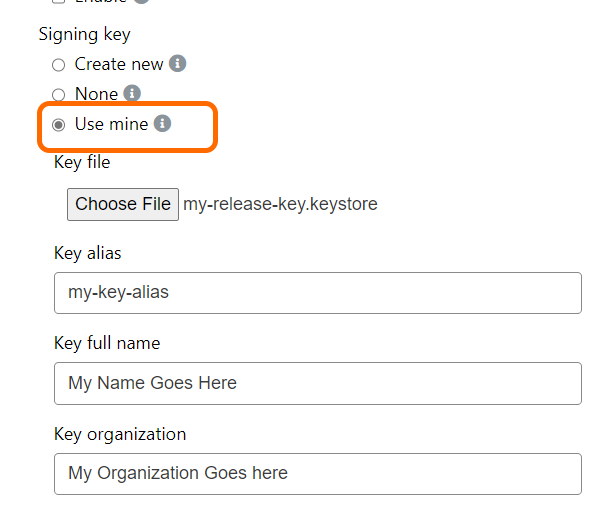
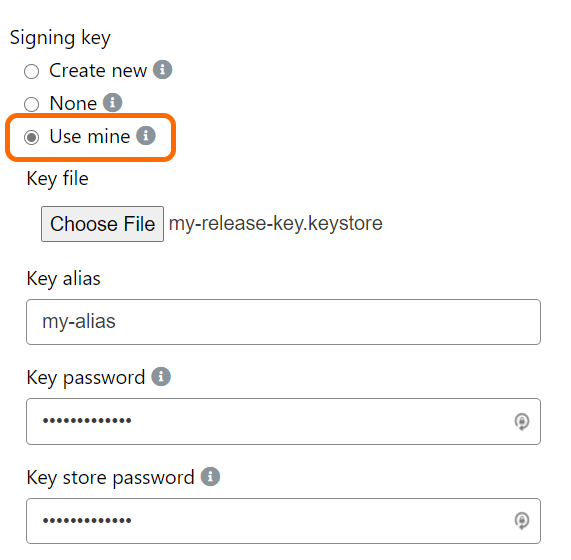
Update to signing key validation for new keys (#44)
* Update to signing key validation for new keys

* Updated image for "use mine" scenario

* Fixed small issue in readme

diff --git a/routes/project.js b/routes/project.js
@@ -123,13 +123,13 @@ function validateApkRequest(request) {
         // Verify we have the required signing options.
         const requiredSigningOptions = [
             "alias",
-            "countryCode",
-            "fullName",
             "keyPassword",
-            "organization",
-            "organizationalUnit",
             "storePassword"
         ];
+        // If we're creating a new key, we require additional info.
+        if (options.signingMode === "new") {
+            requiredSigningOptions.push("countryCode", "fullName", "organization", "organizationalUnit");
+        }
         validationErrors.push(...requiredSigningOptions
             .filter(f => !(options === null || options === void 0 ? void 0 : options.signing[f]))
             .map(f => `Signing option ${f} is required`));

diff --git a/build/bubbleWrapper.ts b/build/bubbleWrapper.ts
@@ -108,6 +108,10 @@ export class BubbleWrapper {
     private async createSigningKey(signingInfo: LocalKeyFileSigningOptions) {
         const keyTool = new KeyTool(this.jdkHelper);
         const overwriteExisting = true;
+        if (!signingInfo.fullName || !signingInfo.organization || !signingInfo.organizationalUnit || !signingInfo.countryCode) {
+            throw new Error(`Missing required signing info. Full name: ${signingInfo.fullName}, Organization: ${signingInfo.organization}, Organizational Unit: ${signingInfo.organizationalUnit}, Country Code: ${signingInfo.countryCode}.`);
+        }
+
         const keyOptions: CreateKeyOptions = {
             path: signingInfo.keyFilePath,
             password: signingInfo.storePassword,

diff --git a/routes/project.ts b/routes/project.ts
@@ -138,13 +138,15 @@ function validateApkRequest(request: express.Request): AppPackageRequest {
     // Verify we have the required signing options.
     const requiredSigningOptions: Array<keyof SigningOptions> = [
       "alias",
-      "countryCode",
-      "fullName",
       "keyPassword",
-      "organization",
-      "organizationalUnit",
       "storePassword"
     ];
+
+    // If we're creating a new key, we require additional info.
+    if (options.signingMode === "new") {
+      requiredSigningOptions.push("countryCode", "fullName", "organization", "organizationalUnit");
+    }
+
     validationErrors.push(...requiredSigningOptions
       .filter(f => !options?.signing![f])
       .map(f => `Signing option ${f} is required`));

diff --git a/build/bubbleWrapper.js b/build/bubbleWrapper.js
@@ -86,6 +86,9 @@ class BubbleWrapper {
     async createSigningKey(signingInfo) {
         const keyTool = new KeyTool_1.KeyTool(this.jdkHelper);
         const overwriteExisting = true;
+        if (!signingInfo.fullName || !signingInfo.organization || !signingInfo.organizationalUnit || !signingInfo.countryCode) {
+            throw new Error(`Missing required signing info. Full name: ${signingInfo.fullName}, Organization: ${signingInfo.organization}, Organizational Unit: ${signingInfo.organizationalUnit}, Country Code: ${signingInfo.countryCode}.`);
+        }
         const keyOptions = {
             path: signingInfo.keyFilePath,
             password: signingInfo.storePassword,

diff --git a/build/androidPackageOptions.ts b/build/androidPackageOptions.ts
@@ -49,6 +49,10 @@ export type AndroidPackageOptions = {
      */
     iconUrl: string;
     /**
+     * Whether to include source code in the Android package.
+     */
+    includeSourceCode: boolean;
+    /**
      * Setting to true will enable a feature that prevents non-ChromeOS devices.
      */
     isChromeOSOnly?: boolean;
@@ -121,8 +125,4 @@ export type AndroidPackageOptions = {
      * The URL to the web manifest.
      */
     webManifestUrl: string;
-    /**
-     * Whether to include source code in the Android package.
-     */
-    includeSourceCode: boolean;
 }

diff --git a/build/signingOptions.ts b/build/signingOptions.ts
@@ -4,10 +4,10 @@ export interface SigningOptions {
      */
     file: string | null;
     alias: string;
-    fullName: string;
-    organization: string;
-    organizationalUnit: string;
-    countryCode: string;
+    fullName?: string | null;
+    organization?: string | null;
+    organizationalUnit?: string | null;
+    countryCode: string | null;
     keyPassword: string;
     storePassword: string;
 }

diff --git a/Next-steps.md b/Next-steps.md
@@ -36,12 +36,12 @@ Once you submit your app, it will be reviewed. Once approved, your PWA will be a
 
 ## Save your signing key
 
-Your zip file contains `signing.keystore` and `signing-key-info.txt` -- keep these in a safe place. You'll need them to deploy future versions of your app.
+Your zip file contains `signing.keystore` and `signing-key-info.txt`:
 
 - `signing.keystore` is the Android key store file containing the signing key.
 - `signing-key-info.txt` is a text file containing your signing key information, such as the key password, store password, and key alias.
 
-Keep both of these files in a safe place.
+Keep both of these files in a safe place. **You'll need them to deploy future versions of your app.** See [Uploading a new version](#uploading-a-new-version) for more info.
 
 ## Uploading a new version
 
@@ -53,19 +53,19 @@ Have an existing app in the Play Store and want to update it to a new version? N
 4. Specify your new `App version` and `App version code`:
 <br><img src="/static/android-options-versions.png" />
 5. Scroll down to `Signing key` and choose `Use mine`: <br><img src="/static/android-options-existing-signing-key.png" />
-6. Choose your existing signing key file, and fill in your existing signing key information (`key alias`, `key full name`, `key organization`, etc.)
+6. Choose your existing signing key file, and fill in your existing signing key information (`key alias`, `key password`, `store password`)
 7. Build your package.
 
 PWABuilder will build a package signed with your existing key. When you upload it to Google Play, it'll automatically be recognized as a new version of your existing app. 😎
 
 ## Note about Quality Criteria on Android
 
-With Chrome 86 PWAs downloaded from the Google Play Store will now crash if your app:
+As of Chrome 86, PWAs downloaded from the Google Play Store will now crash if your app:
 - Does not have a valid TLS certificate
 - Does not work offline
 - Does not link to your digital assetlinks file correctly
 
-Because of this you should ensure that your PWA works completely offline, runs on an HTTPS domain and has your assetlinks file linked. For the assetlinks file, please refer to Step 1 above for more info. For your offline experience, we recommend running your PWA through [PWABuilder](https://pwabuilder.com) to ensure that your PWA works offline. For more info, check out [this article](https://blog.chromium.org/2020/06/changes-to-quality-criteria-for-pwas.html) from our friends over on the Chrome team.
+Because of this you should ensure that your PWA works completely offline, runs on an HTTPS domain and has your assetlinks file linked. For the assetlinks file, please refer to [Step 1 above](#1-deploy-assetlinksjson). For your offline experience, we recommend running your PWA through [PWABuilder](https://pwabuilder.com) to ensure that your PWA works offline. For more info, check out [this article](https://blog.chromium.org/2020/06/changes-to-quality-criteria-for-pwas.html) from our friends over on the Chrome team.
 
 
 ## Need more help?

diff --git a/README.md b/README.md
@@ -20,6 +20,9 @@ You may also generate a package manually by sending a POST to `/generateAppPacka
     "appVersionCode": 1,
     "display": "standalone",
     "host": "https://sadchonks.com",
+    "iconUrl": "https://sadchonks.com/kitteh-512.png",
+    "includeSourceCode": false,
+    "isChromeOSOnly": false,
     "startUrl": "/saved",
     "webManifestUrl": "https://sadchonks.com/manifest.json",
     "themeColor": "#3f51b5",
@@ -28,9 +31,8 @@ You may also generate a package manually by sending a POST to `/generateAppPacka
     "navigationDividerColor": "#3f51b5",
     "navigationDividerColorDark": "#3f51b5",
     "backgroundColor": "#3f51b5",
-    "iconUrl": "https://sadchonks.com/kitteh-512.png",
-    "maskableIconUrl?": null,
-    "monochromeIconUrl?": null,
+    "maskableIconUrl": null,
+    "monochromeIconUrl": null,
     "shortcuts": [{
         "name": "New Chonks",
         "short_name": "New",
